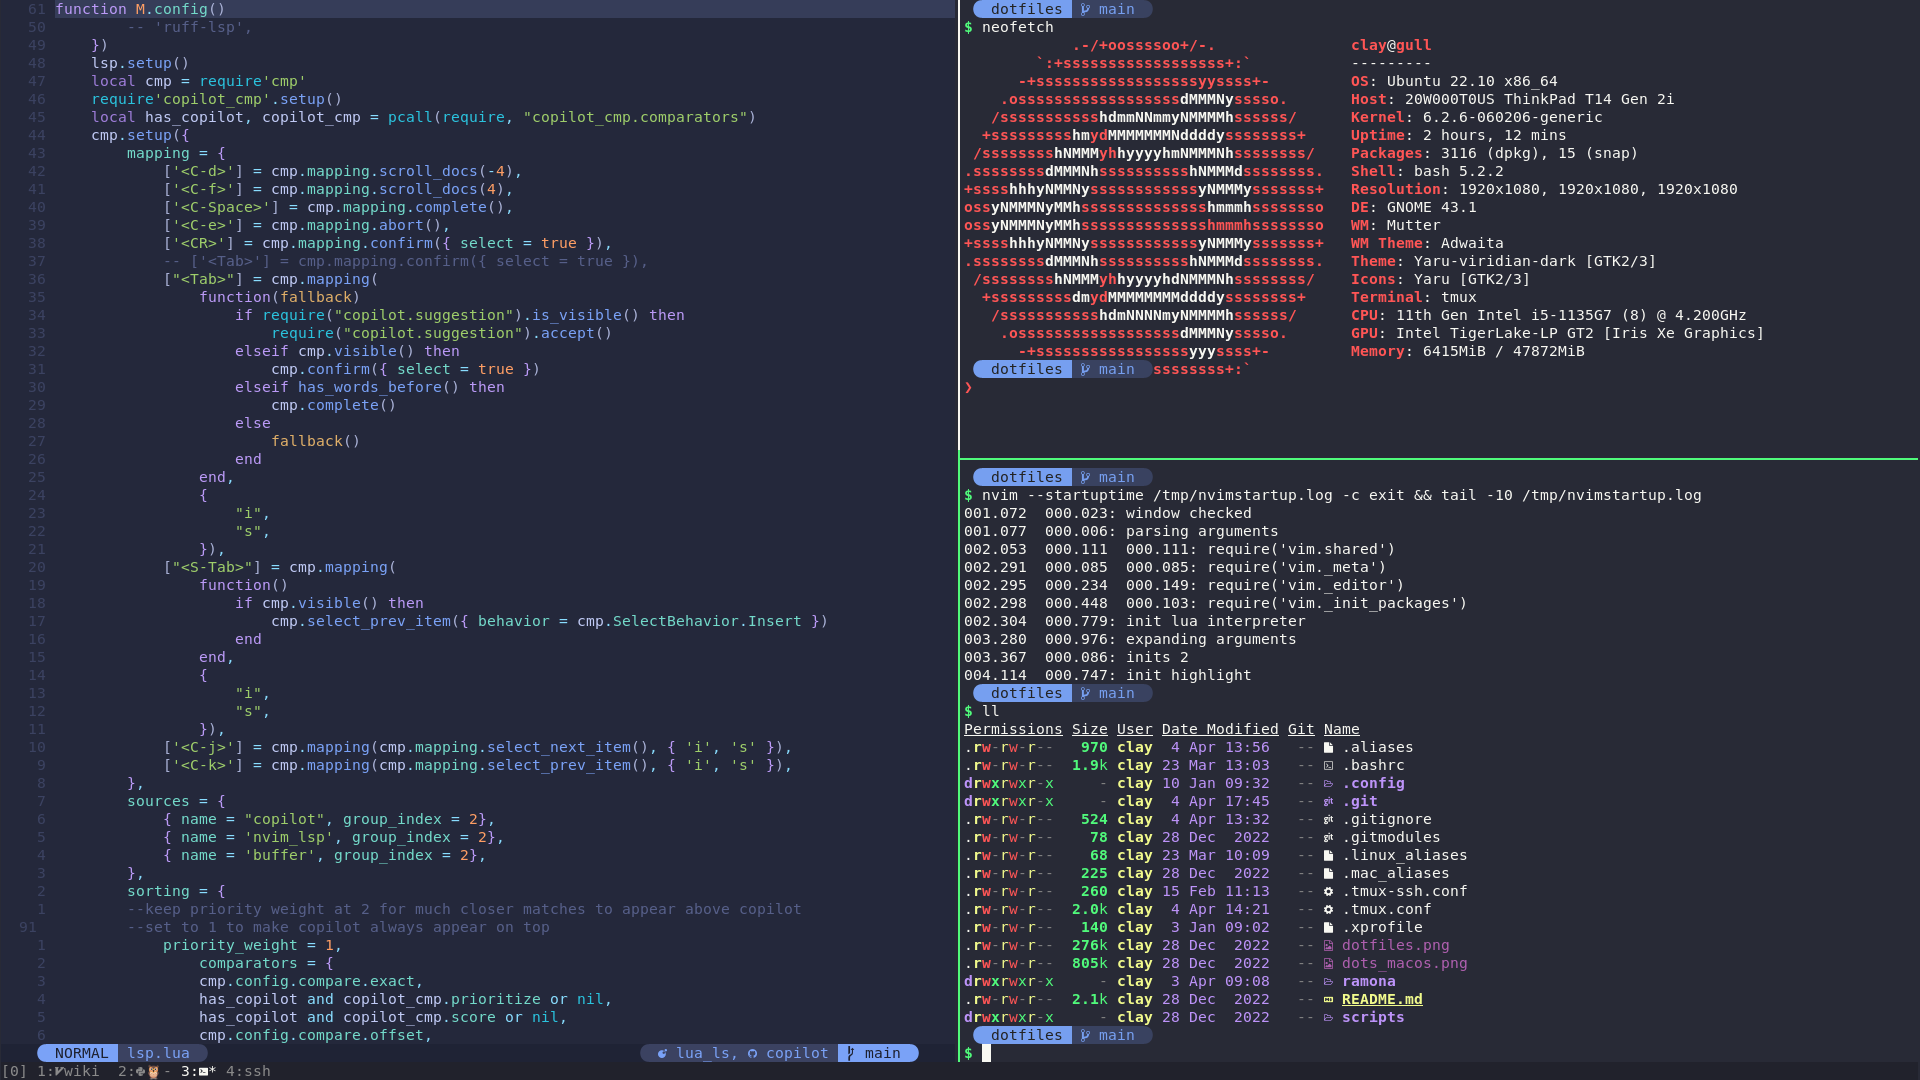
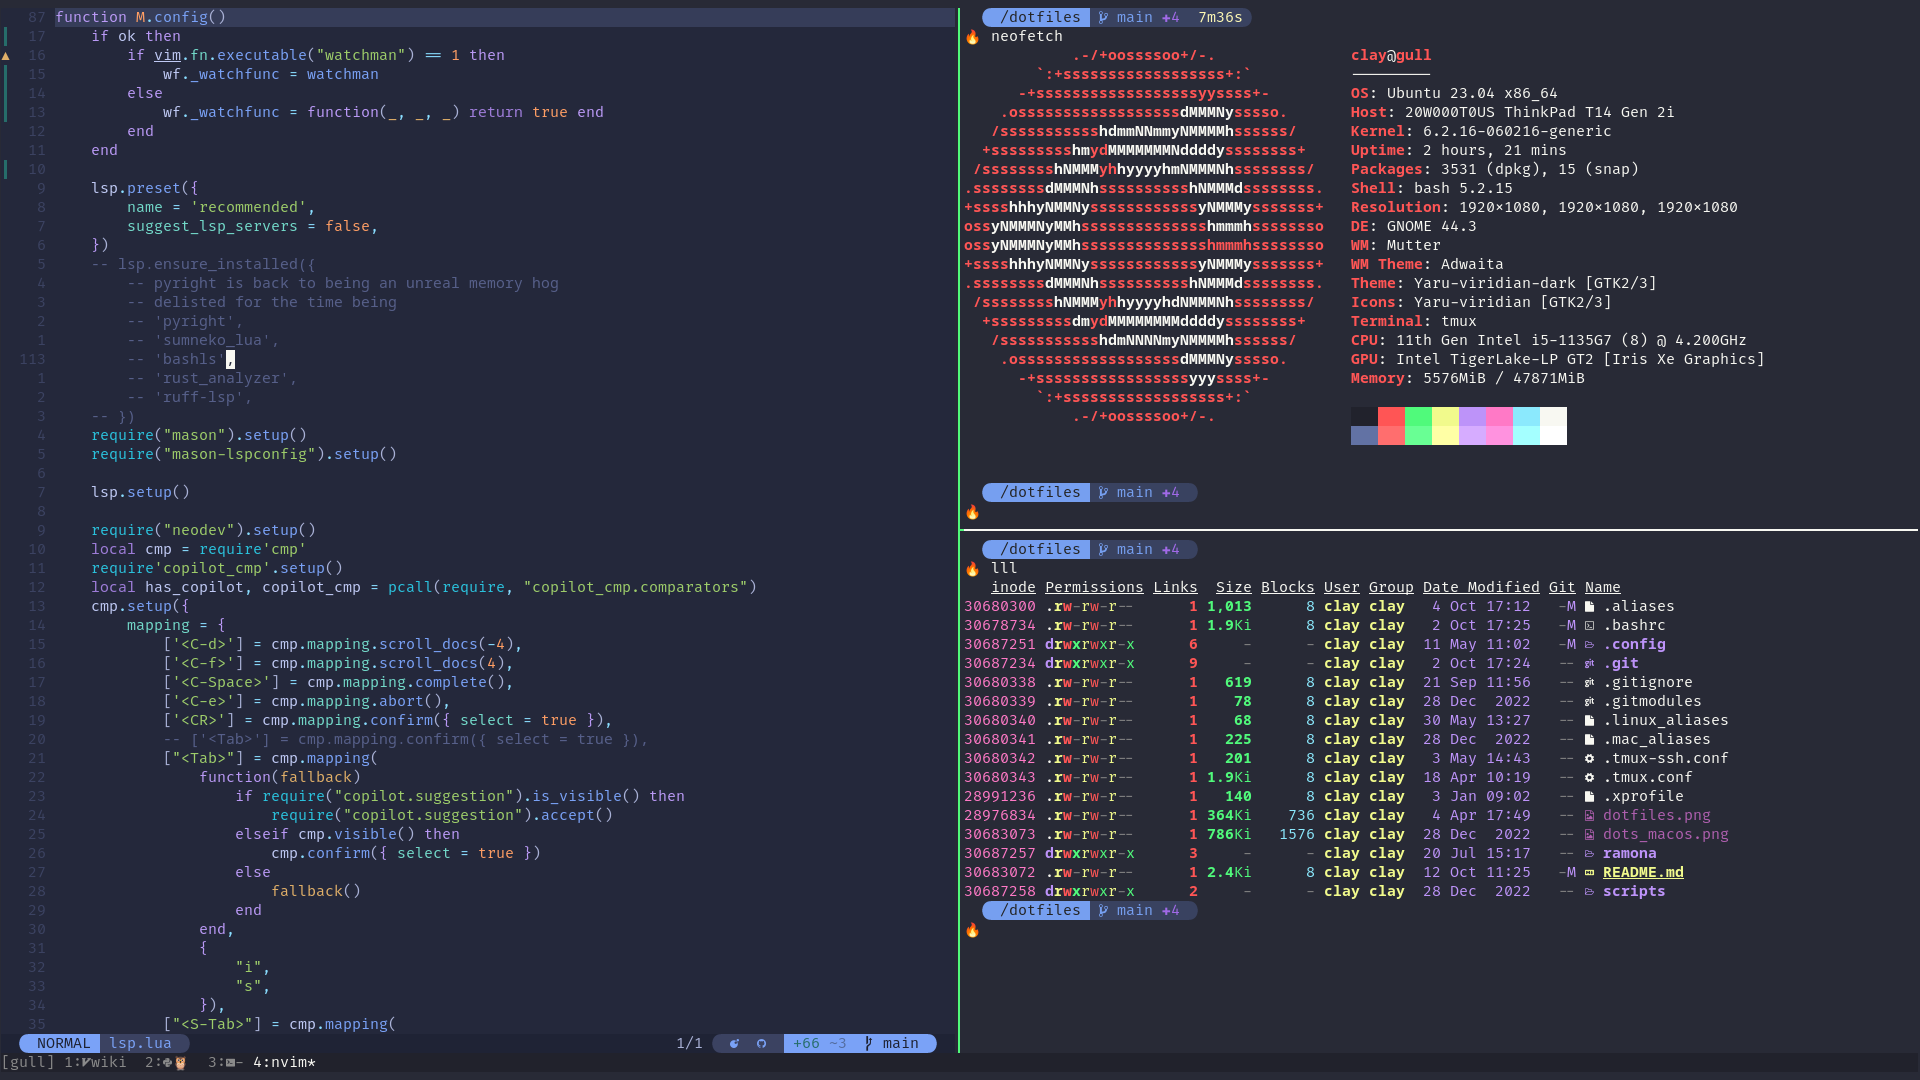
watchman for watchfiles in nvim

diff --git a/README.md b/README.md
@@ -6,7 +6,7 @@
 
 My auto-installer is located at `scripts/setup.sh`
 
-```
+```bash
 $ tree -a -I '.git|ramona|karabiner'
 .
 ├── .aliases
@@ -24,18 +24,18 @@ $ tree -a -I '.git|ramona|karabiner'
 │   │       │   ├── langserver_icons.lua
 │   │       │   ├── lazy.lua
 │   │       │   ├── maps.lua
-│   │       │   └── options.lua
+│   │       │   ├── options.lua
+│   │       │   └── plugin_maps.lua
 │   │       └── plugins
 │   │           ├── copilot.lua
 │   │           ├── gitsigns.lua
 │   │           ├── lsp.lua
 │   │           ├── lualine.lua
-│   │           ├── nvim-comment.lua
-│   │           ├── smartcolumn.lua
+│   │           ├── mini.lua
+│   │           ├── nvim-comment.bak
 │   │           ├── telescope.lua
 │   │           ├── tokyonight.lua
 │   │           ├── treesitter.lua
-│   │           ├── undotree.lua
 │   │           └── vimwiki.lua
 │   └── starship.toml
 ├── dotfiles.png
@@ -51,8 +51,15 @@ $ tree -a -I '.git|ramona|karabiner'
 ├── .tmux-ssh.conf
 └── .xprofile
 
-8 directories, 33 files
+9 directories, 33 files
 ```
+
+#### Dependencies
+* [neovim](https://neovim.io/)
+* [tmux](https://github.com/tmux/tmux/wiki)
+* [starship](https://starship.rs)
+* [exa](https://the.exa.website/)
+* [watchman](https://facebook.github.io/watchman/) because [nvim's watchfiles implementation is bad and pyright is greedy](.config/nvim/lua/plugins/lsp.lua)
 
 #### Submodules
 
@@ -67,9 +74,6 @@ after cloning:
 after updates
 
 `git submodule update --remote`
-
-#### NVIM
-nvim start time somewhere between 3 - 5ms.
 
 #### Old NVIM configurations
 
